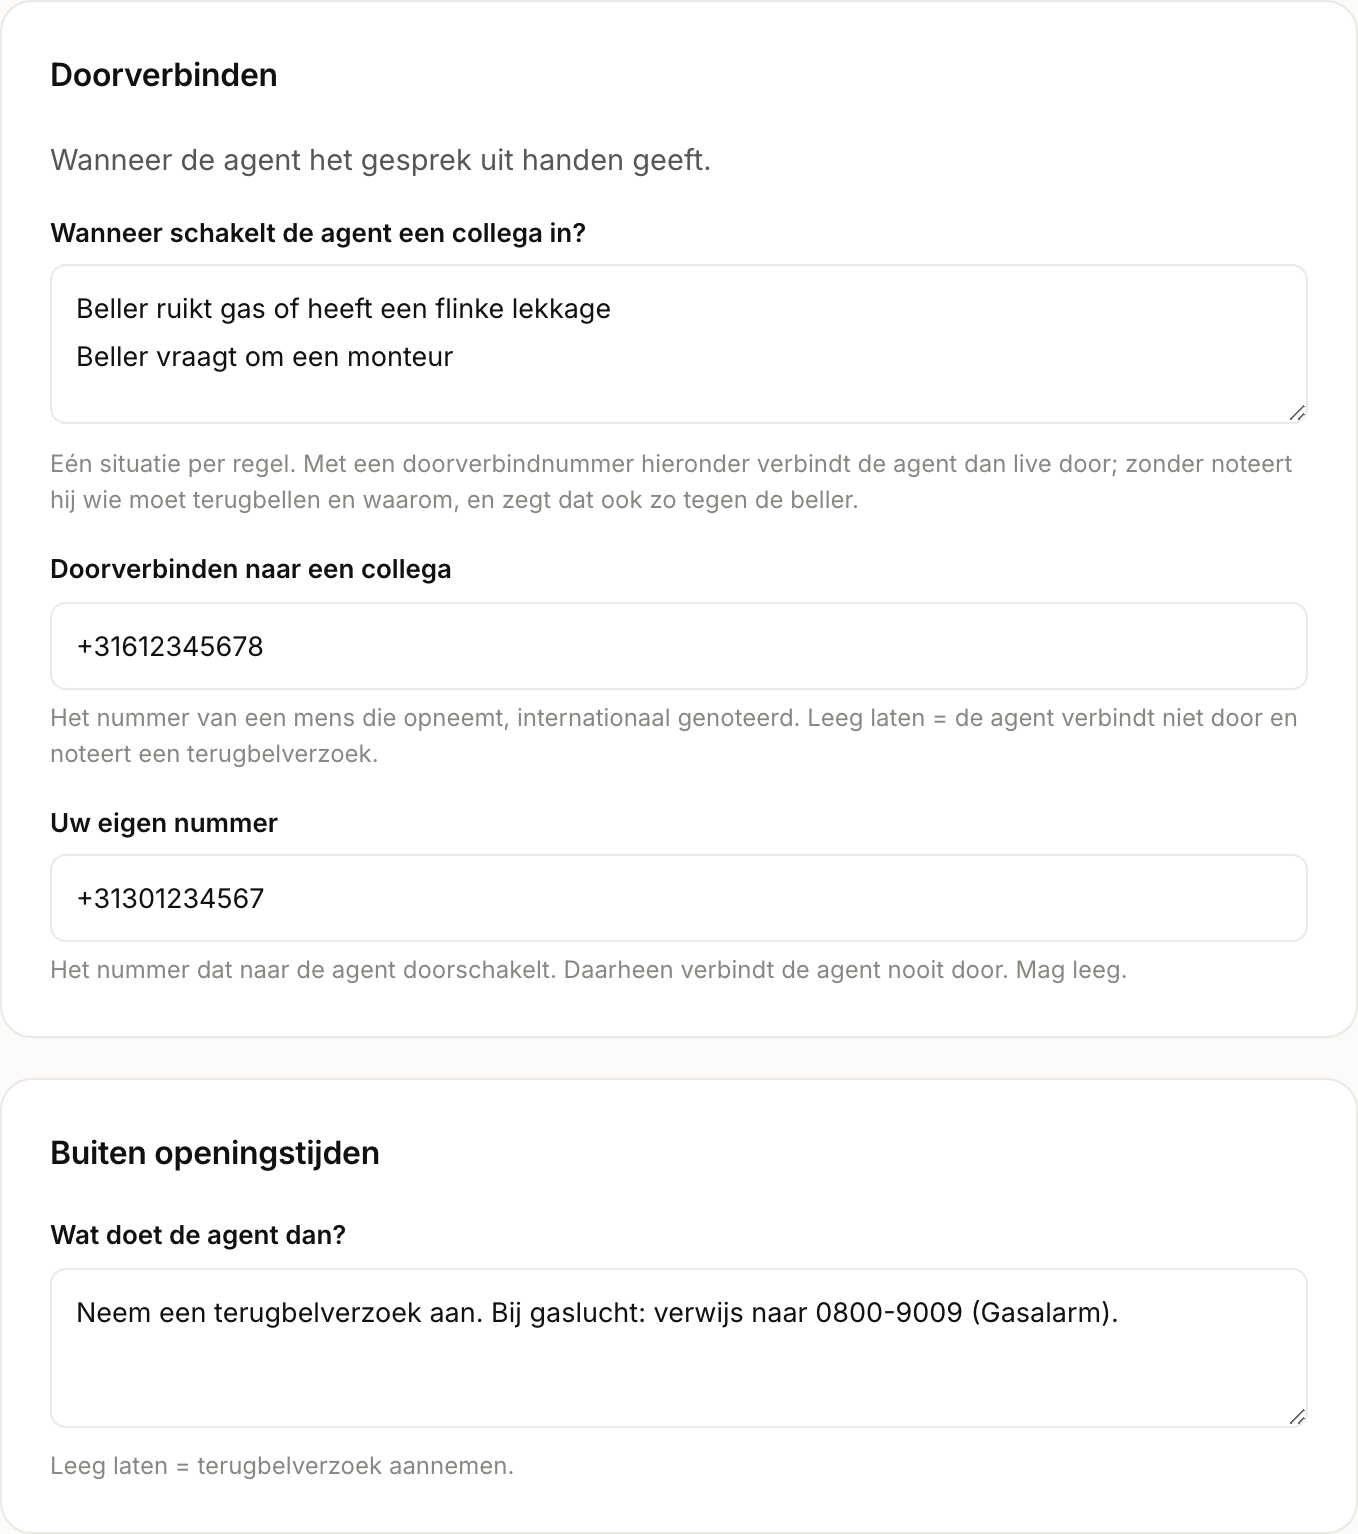
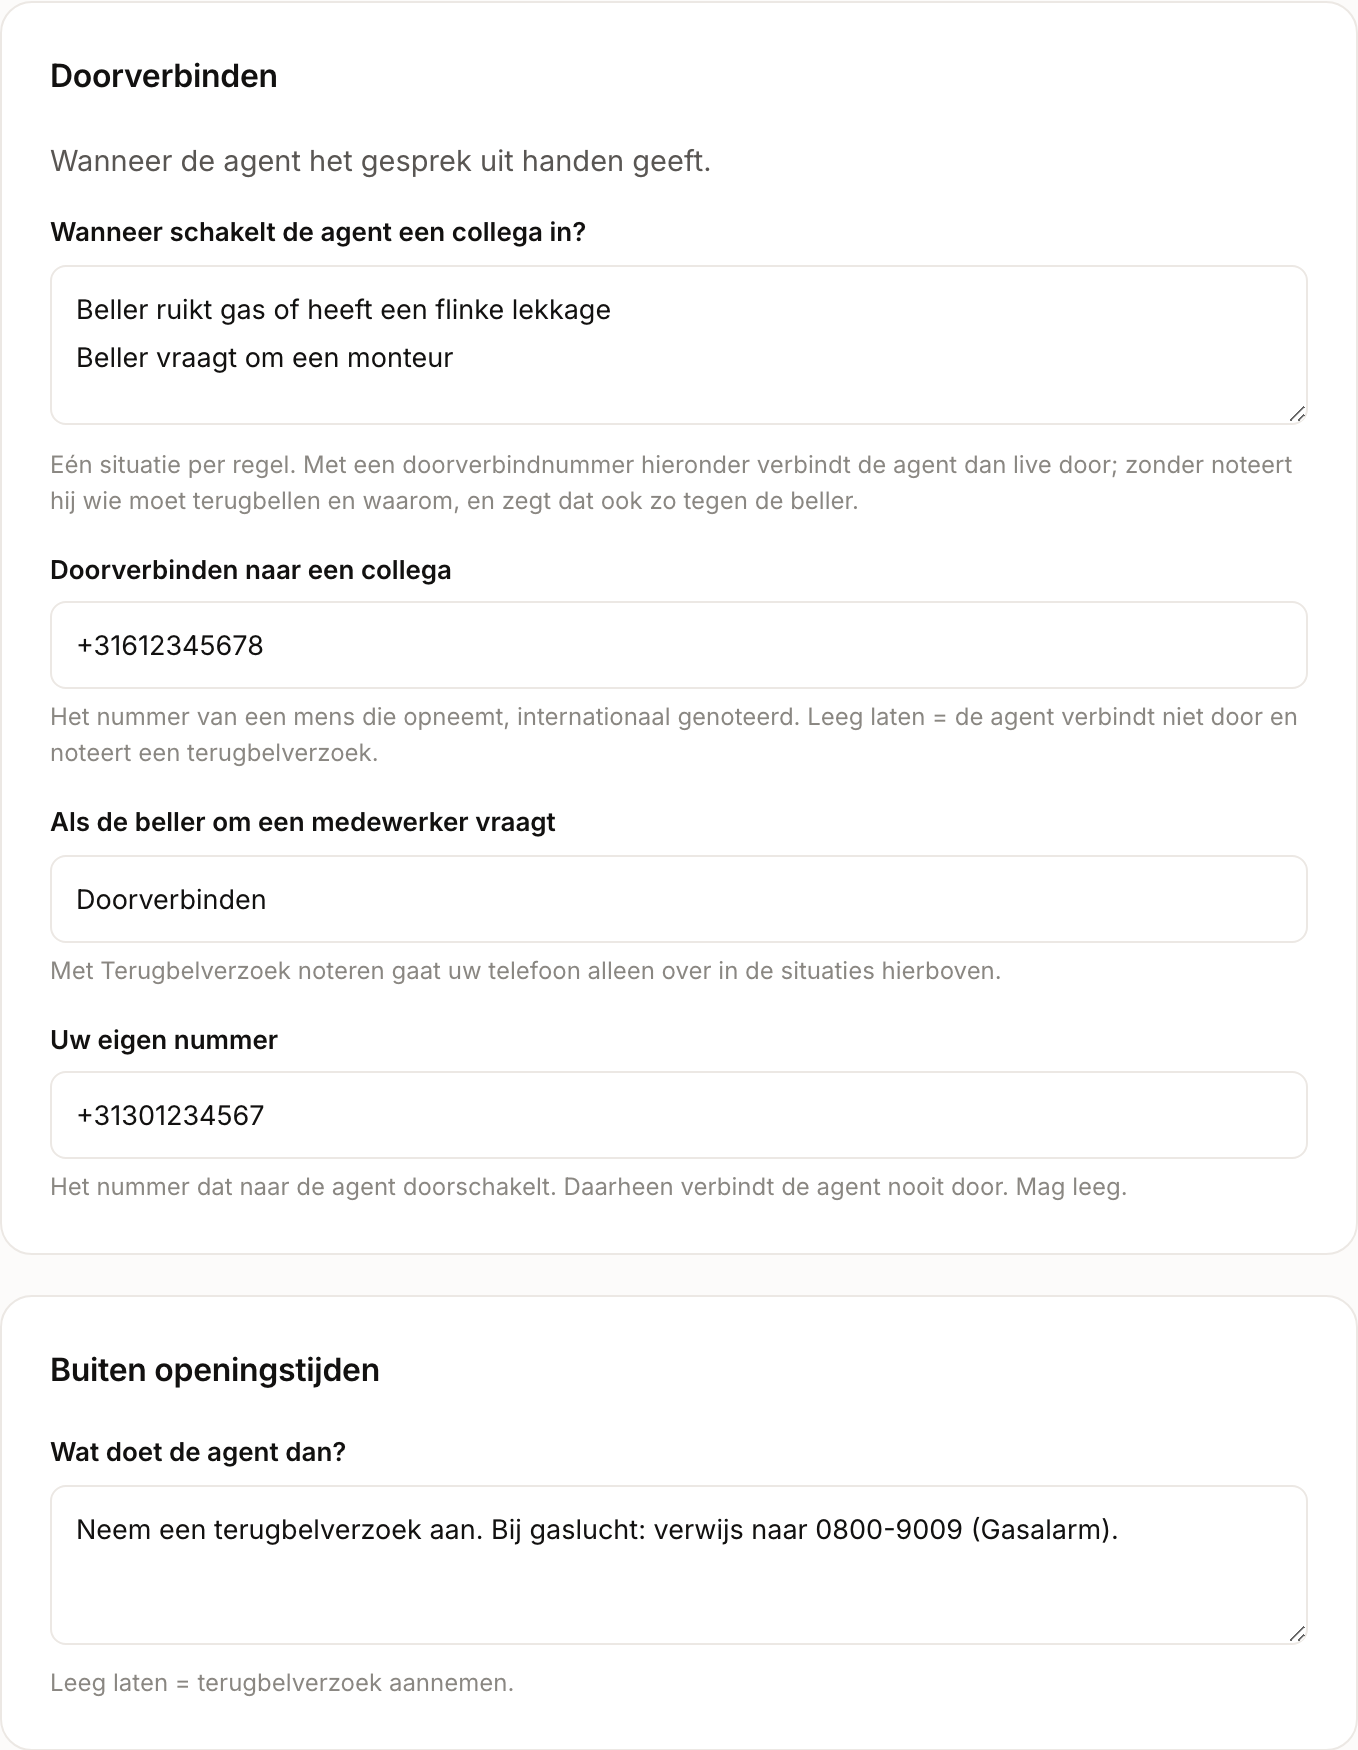
Docs: "Als de beller om een medewerker vraagt" bij Doorverbinden
Volgt dashboard 2ffb288/e40562f: de agent kan een beller die om een
medewerker vraagt doorverbinden of een terugbelverzoek noteren. Stap 5 noemt
de keuze; nieuwe schermafbeelding (?v=20261022).

diff --git a/docs/telefoon-instellen.html b/docs/telefoon-instellen.html
@@ -232,6 +232,9 @@
 <p>Vul bij <strong>Doorverbinden naar een collega</strong> het nummer in van iemand die opneemt, met +31 ervoor.
   Vul bij <strong>Uw eigen nummer</strong> het nummer in dat naar de agent doorschakelt. Daarheen verbindt de agent nooit
   door. Dit veld mag leeg blijven.</p>
+<p>Kies bij <strong>Als de beller om een medewerker vraagt</strong> of de agent dan doorverbindt of een
+  terugbelverzoek noteert. Met <strong>Terugbelverzoek noteren</strong> gaat uw telefoon alleen over in de situaties van
+  stap 4.</p>
 <p class="docs-muted">Met een doorverbindnummer verbindt de agent live door. Zonder dat nummer noteert hij een
   terugbelverzoek en zegt hij dat ook tegen de beller.</p>
 </div>
@@ -248,7 +251,7 @@
 </div>
 
 <div class="docs-media docs-media--shot">
-<a href="../assets/docs/telefoon-instellen-4-grenzen.webp?v=20261021" target="_blank" rel="noopener"><img src="../assets/docs/telefoon-instellen-4-grenzen.webp?v=20261021" alt="De kaarten Doorverbinden en Buiten openingstijden, met de situaties voor een collega, de twee telefoonnummers en wat de agent buiten openingstijden doet" width="679" height="767" loading="lazy" /></a>
+<a href="../assets/docs/telefoon-instellen-4-grenzen.webp?v=20261022" target="_blank" rel="noopener"><img src="../assets/docs/telefoon-instellen-4-grenzen.webp?v=20261022" alt="De kaarten Doorverbinden en Buiten openingstijden, met de situaties voor een collega, het doorverbindnummer, de keuze als de beller om een medewerker vraagt, uw eigen nummer en wat de agent buiten openingstijden doet" width="679" height="875" loading="lazy" /></a>
 </div>
 <p class="docs-media-caption">Doorverbinden en wat de agent buiten openingstijden doet.</p>
 
